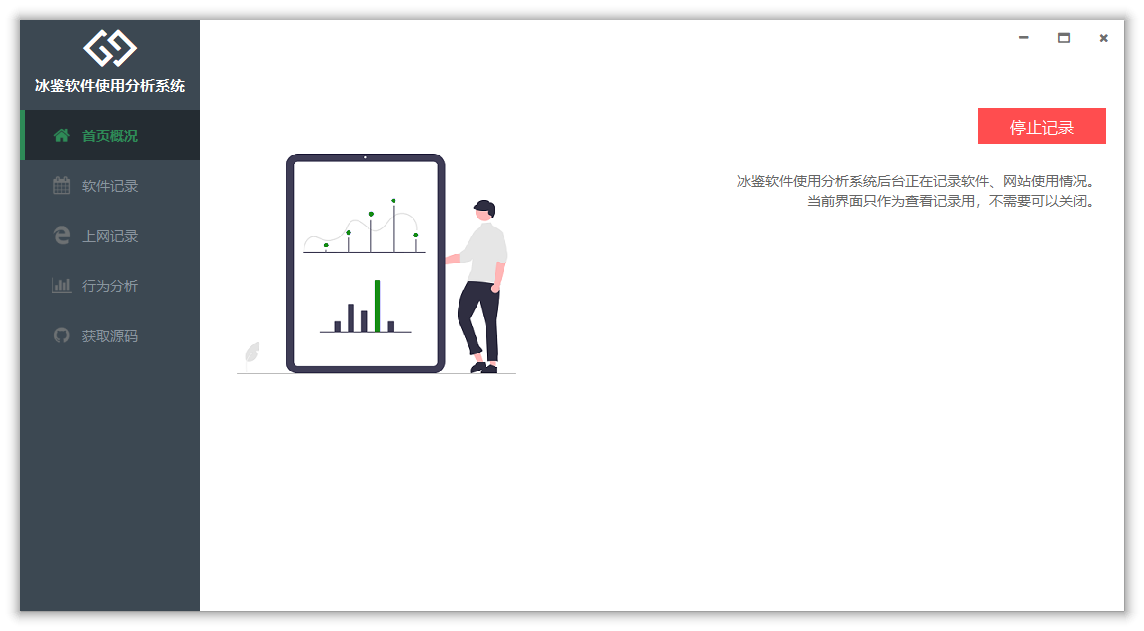
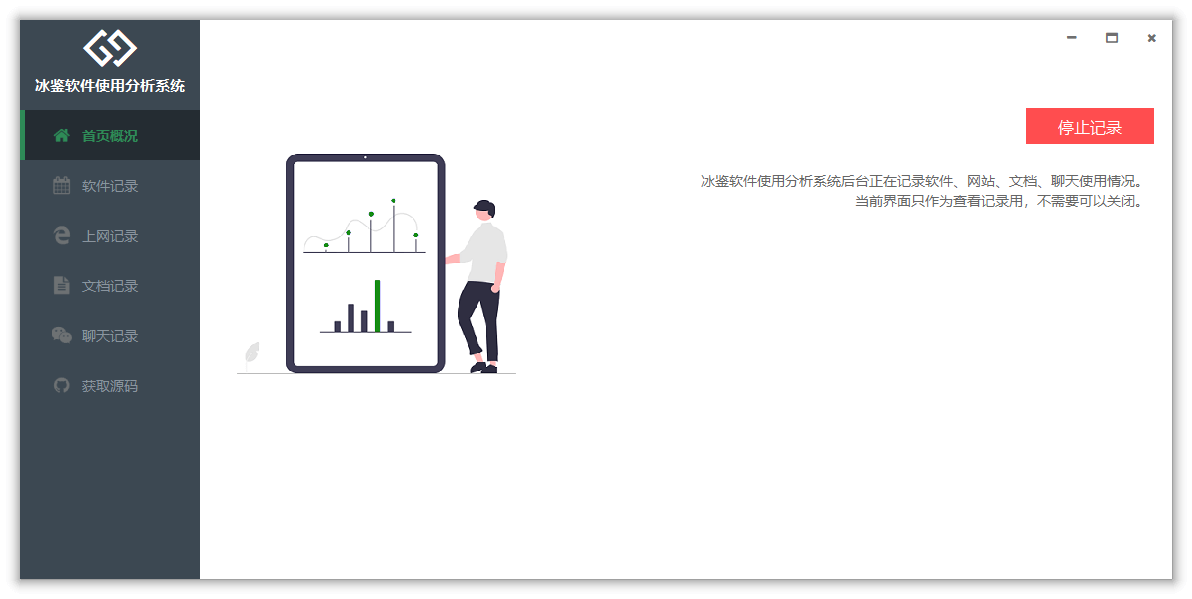
v1.0.2.0

diff --git a/README.md b/README.md
@@ -13,11 +13,35 @@
 - 记录的是每个软件是实际操作时间，而不是进程的运行时间。
 - 记录的是通过浏览器上网的地址，而不是其他途径访问的网络。
 - 可以记录每个软件的使用切换好像，分析工作是否频繁被打断。
+- **可以分析统计正在操作的Office文档路径**
+- **可以分析统计正在聊天的用户**
+
+## 源码获取
+
+最新版本源码只提供给购买了 [iRecorderSDK](https://github.com/wecooperate/iRecorderSDK) 的客户。
+
+在新版本发布后，会定期开源旧版本源码。
 
 ## 软件截图
 ![](./doc/main.png)
 ![](./doc/soft.png)
 ![](./doc/soft_detail.png)
 ![](./doc/url.png)
+![](./doc/url_detail.png)
+![](./doc/office.png)
+![](./doc/im.png)
 
-因特殊原因，源码强制回滚，已经Fork的请不要更新。软件提供二进制更新。
+## 版本说明
+
+## 1.0.2.0
+
+- 添加时间线功能，可以直观看到软件切换过程
+- 添加百分比条，可以直观看到使用占比
+- 添加文档使用对应的路径
+- 添加微信聊天对象
+
+## 1.0.1.0
+
+初始化版本
+
+## [关于我们](https://imonitorsdk.com/about)
